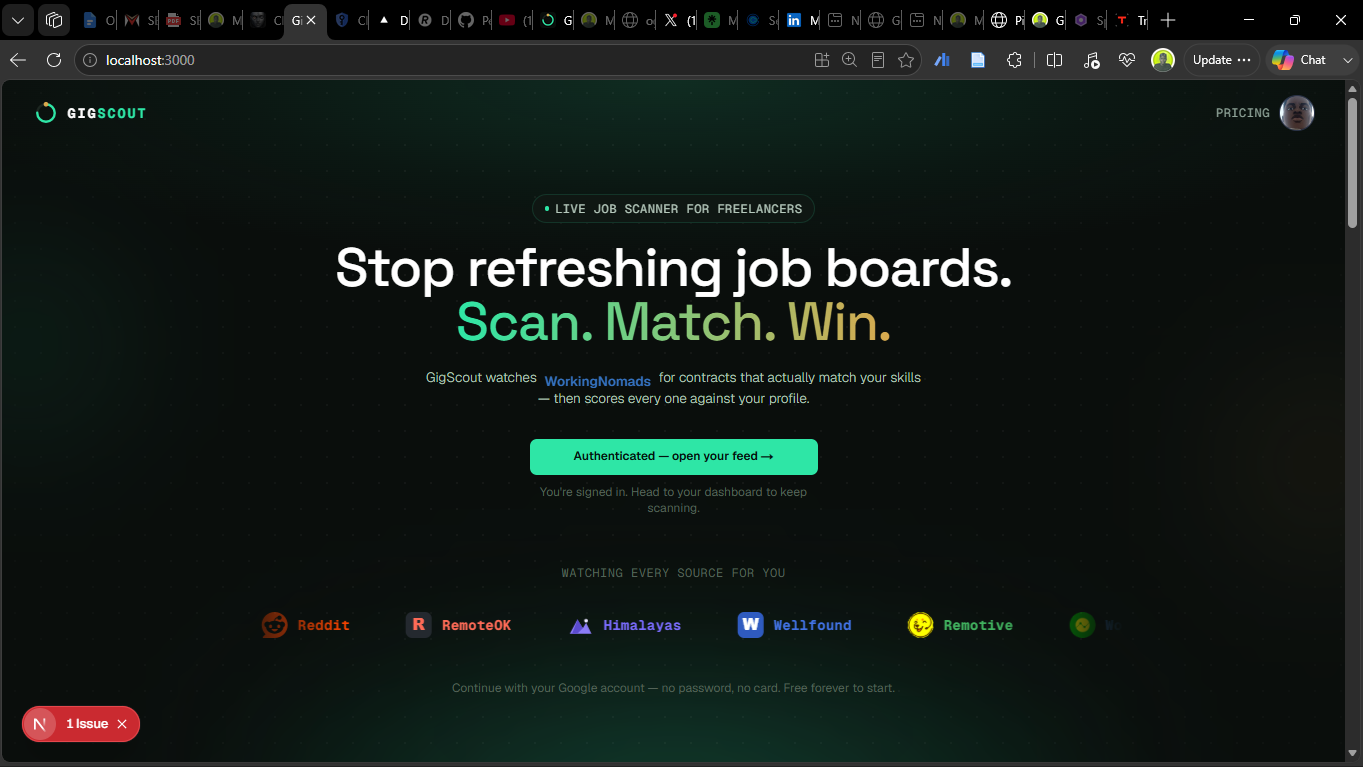
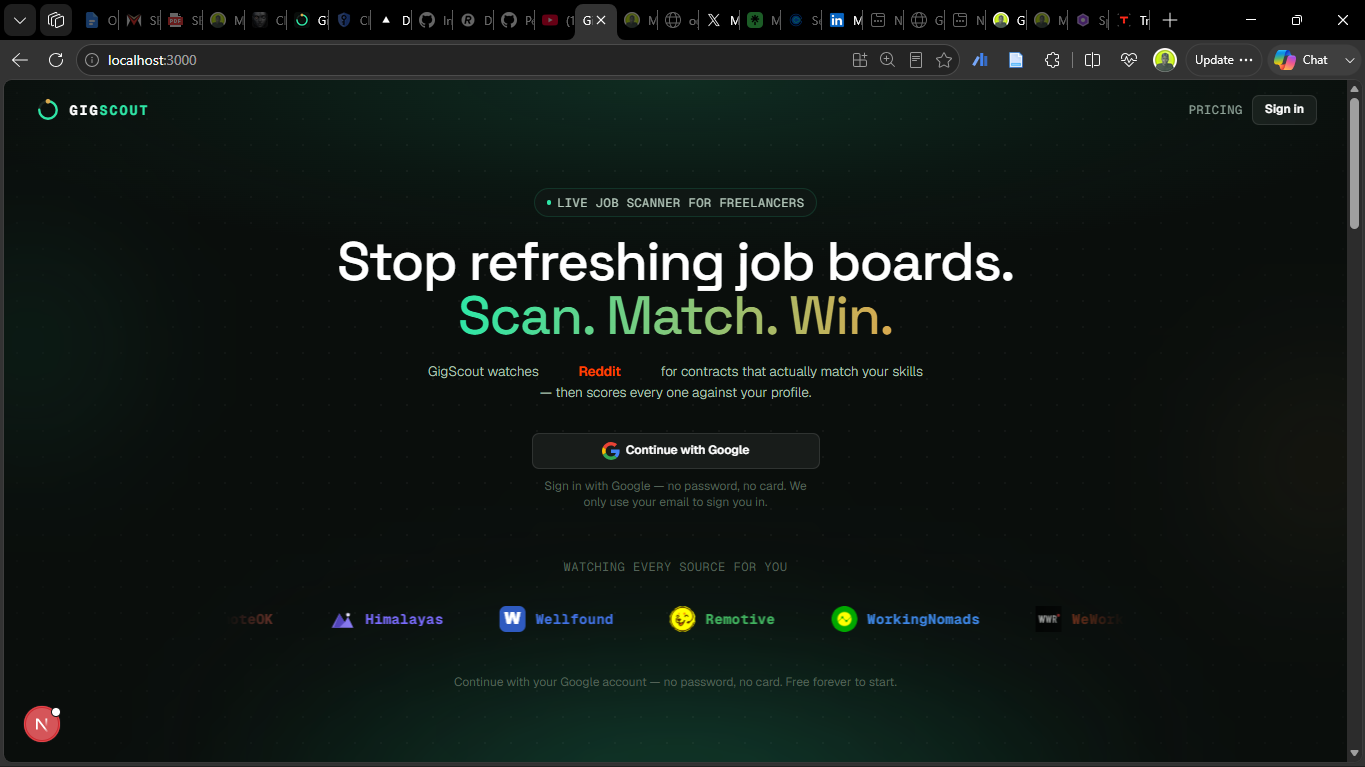
feat: add lightbox functionality for image galleries and update project metadata

diff --git a/index.html b/index.html
@@ -707,6 +707,102 @@
       padding-right: 16px;
     }
   }
+
+  .lightbox {
+    position: fixed;
+    inset: 0;
+    z-index: 1000;
+    display: flex;
+    align-items: center;
+    justify-content: center;
+    background: rgba(0, 0, 0, 0.8);
+    -webkit-backdrop-filter: blur(12px);
+    backdrop-filter: blur(12px);
+    opacity: 0;
+    pointer-events: none;
+    transition: opacity 0.25s ease;
+  }
+
+  .lightbox.open {
+    opacity: 1;
+    pointer-events: auto;
+  }
+
+  .lb-stage {
+    margin: 0;
+    max-width: min(90vw, 1200px);
+    max-height: 82vh;
+  }
+
+  .lb-stage img {
+    display: block;
+    max-width: 100%;
+    max-height: 82vh;
+    border-radius: 6px;
+    box-shadow: 0 30px 90px rgba(0, 0, 0, 0.55);
+  }
+
+  .lb-close,
+  .lb-prev,
+  .lb-next {
+    position: fixed;
+    z-index: 1001;
+    display: grid;
+    place-items: center;
+    width: 44px;
+    height: 44px;
+    border-radius: 50%;
+    border: 1px solid rgba(255, 255, 255, 0.2);
+    background: rgba(255, 255, 255, 0.08);
+    color: #fff;
+    font-size: 20px;
+    line-height: 1;
+    cursor: pointer;
+    transition: background 0.2s, border-color 0.2s;
+  }
+
+  .lb-close:hover,
+  .lb-prev:hover,
+  .lb-next:hover {
+    background: rgba(255, 255, 255, 0.18);
+    border-color: rgba(255, 255, 255, 0.4);
+  }
+
+  .lb-close {
+    top: 20px;
+    right: 20px;
+  }
+
+  .lb-prev {
+    left: 20px;
+    top: 50%;
+    transform: translateY(-50%);
+  }
+
+  .lb-next {
+    right: 20px;
+    top: 50%;
+    transform: translateY(-50%);
+  }
+
+  .lb-count {
+    position: fixed;
+    bottom: 24px;
+    left: 50%;
+    transform: translateX(-50%);
+    font-family: 'JetBrains Mono', monospace;
+    font-size: 12px;
+    color: rgba(255, 255, 255, 0.6);
+  }
+
+  @media (max-width: 640px) {
+    .lb-prev {
+      left: 10px;
+    }
+    .lb-next {
+      right: 10px;
+    }
+  }
 </style>
 </head>
 <body>
@@ -799,7 +895,7 @@
             <div class="project-content">
               <div>
                 <div class="project-title">SpatialCare</div>
-                <div class="project-meta">FastAPI &middot; Gemini RAG</div>
+                <div class="project-meta">FastAPI &middot; RAG &middot; Gemini</div>
               </div>
               <svg class="project-icon" xmlns="http://www.w3.org/2000/svg" viewBox="0 0 24 24" fill="none" stroke="currentColor" stroke-width="1.5" stroke-linecap="round" stroke-linejoin="round"><path d="M7 7h10v10"></path><path d="M7 17 17 7"></path></svg>
             </div>
@@ -915,7 +1011,7 @@
         <div class="exp-meta">
           <span>Oct 2025 &mdash; Jul 2026</span>
           <span>Lekki, Nigeria</span>
-          <span class="exp-badge">1 yr</span>
+          <span class="exp-badge">10 mos</span>
         </div>
       </div>
 
